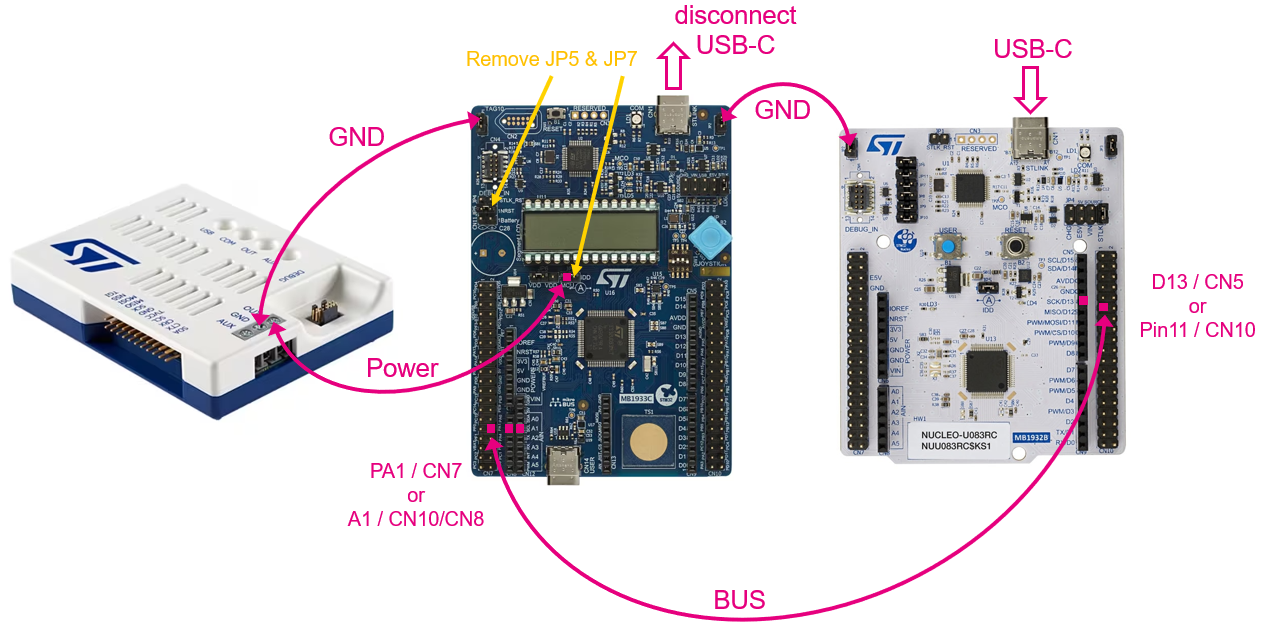
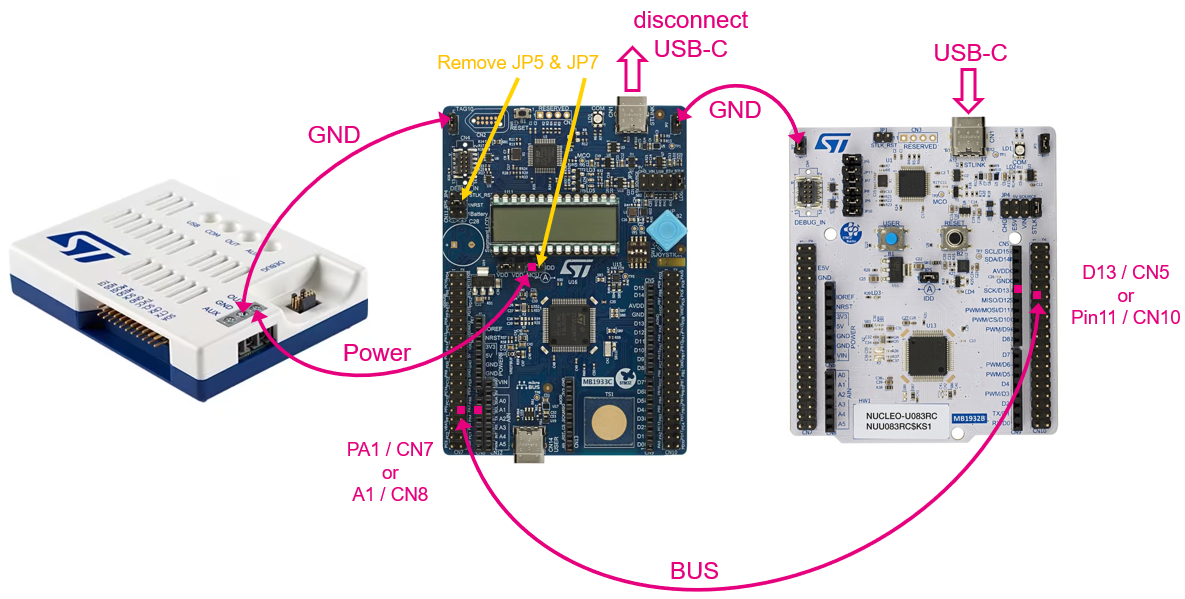
major update

diff --git a/enddevice/enddevice_handson_cubeide.md b/enddevice/enddevice_handson_cubeide.md
@@ -1,4 +1,4 @@
-----!
+//----!
 Presentation
 ----!
 
@@ -32,6 +32,7 @@ Uncomment **HAL_LCD_MODULE_ENABLED** in `stm32u0xx_hal_conf.h` to be able operat
 #define HAL_LCD_MODULE_ENABLED
 ```
 <br />
+
 Drag and drop listed header files from `C:\Users\...\STM32Cube\Repository\STM32Cube_FW_U0_V1.0.0\Drivers\BSP\STM32U083C-DK` in to `Inc` folder of the project.
 
 - `stm32u083c_discovery_glass_lcd.h`
@@ -40,7 +41,29 @@ Drag and drop listed header files from `C:\Users\...\STM32Cube\Repository\STM32C
 - `stm32u083c_discovery_errno.h`
 
 ![image](./img/header_files.png)
+
+# Include Board Support Package and LowLayer library 2
+
+Drag and drop listed c file from `C:\Users\...\STM32Cube\Repository\STM32Cube_FW_U0_V1.0.0\Drivers\BSP\STM32U083C-DK` in to `Src` folder of the project.
+
+- `stm32u083c_discovery_glass_lcd.c`
+
 <br />
+
+Drag and drop listed header file from `C:\Users\...\STM32Cube\Repository\STM32Cube_FW_U0_V1.0.0\Drivers\STM32U0xx_HAL_Driver\Inc` in to `STM32U0xx_HAL_Driver\Inc` folder of the project.
+
+- `stm32u0xx_hal_lcd.h`
+
+<br />
+
+Drag and drop listed c file from `C:\Users\...\STM32Cube\Repository\STM32Cube_FW_U0_V1.0.0\Drivers\STM32U0xx_HAL_Driver\Src` in to `STM32U0xx_HAL_Driver\Src` folder of the project.
+
+- `stm32u0xx_hal_lcd.c`
+
+<br />
+
+# DK Board revision
+- Solder mask print MB1933x (x = A/B/C/..)
 
 Define correct board revision in **stm32u083c_discovery.h**. Differ in assembled Glass LCD.
 
@@ -50,6 +73,7 @@ Define correct board revision in **stm32u083c_discovery.h**. Differ in assembled
 #endif
 ```
 <br />
+
 # Exported Functions
 Copy paste following snippet in `USER CODE BEGIN EFP` section in **main.h** file:
 
@@ -72,6 +96,8 @@ Let skip them and use simple LL function.
  // HAL_RTCEx_WakeUpTimerIRQHandler(&hrtc);
   /* USER CODE BEGIN RTC_TAMP_IRQn 1 */
 ```
+
+<br />
 
 Copy paste following snippet in `USER CODE BEGIN RTC_TAMP_IRQn 1` section in **stm32u0xx_it.c** file:
 
@@ -97,6 +123,8 @@ if (LL_RTC_IsActiveFlag_WUT(RTC) != 0)
  // HAL_LPTIM_IRQHandler(&hlptim1);
   /* USER CODE BEGIN TIM6_DAC_LPTIM1_IRQn 1 */
 ```
+
+<br />
 
 Copy paste following snippet in `USER CODE BEGIN TIM6_DAC_LPTIM1_IRQn 1` section in **stm32u0xx_it.c** file:
 
@@ -138,6 +166,7 @@ Copy paste following snippet in `USER CODE BEGIN PFP` section in **main.c** file
 void Convert_IntegerIntoChar(float number, uint16_t *p_tab);
 ```
 
+# Initialization 2
 ## Reset Backup domain
 Clear complete backup domain (LSE, RTC,..) in case of system reset.
 
@@ -230,7 +259,7 @@ Copy paste following snippet in `USER CODE BEGIN 4` section in **main.c** file:
 /*ISR for Falling edges from CH1_LPTIM1 and calculate duty cycle of negative pulse
  * 
  * ____IDLE_____negDC_______
- *    			|	|		|	|
+ *    		   	|	|		|	|
  *     			|___|		|___|
  * 			oldVF  newVR  newVF
  * */

diff --git a/enddevice/enddevice_handson_intro.md b/enddevice/enddevice_handson_intro.md
@@ -1,51 +1,23 @@
 ----!
 Presentation
 ----!
-# ???
-Let imagine simple BUS architecture one MASTER panel and multiple End device.
-
-- Two wired BUS DC power supply + Vss
-- Data stream are modulated as Edges in power line
-- Defined Low pulse widths for 1/0 bit in range hundred of microseconds to few miliseconds
-
-![image](./img/MasterBusEnd.png)
-
 # End device
 
 - Supplied from BUS and continuously decoding stream on BUS
-- Depends on timing requirements End device combining Sleep/Stop modes
+- Depends on timing requirements End device combining Sleep/StopX modes
 - Need also provide asnwers back to power line
 - Pulse can be very distorted
   
-
 ## In a Workshop
 
 - Use **STM32U83-DK** board
-- Device not supplied from BUS (it would required extra power supply)
-- Measure incoming signal by LPTIM with external LSE(quartz) crystal
+- Device is not supplied from BUS (it would require extra power supply)
+- Measure incoming pulses by LPTIM with external LSE(quartz) crystal
 - Re-shape edges by internal **Comparator**
-- Between edges and during Idle state on BUS the device enter in STOP mode
-- Run simple data process
+- Between edges and during Idle state on BUS the device enter in STOP1 mode
+- Perform simple data process
 - Duty cycle of low pulse is displayed on **Glass LCD**
-- Manage TimeOut with RTC unit when no TX acitivity on BUS
+- Manage TimeOut with RTC unit when no TX activity on BUS
 - Monitor consumption profile in **STM32CubeMonitor-Power**
 
 ![image](./img/EndDevice.png)
-
-# Master panel
-
-- Power bus with limited current
-- Transmit messages and expeceted answer within defined time window
-
-## In a Workshop
-
-- Use **STM32U83-NUCLEO** board
-- Generate low pulse with various duty cycle thanks TIMER in PWM mode
-- PWM duty cycle reconfiguration done in background mode by DMA transfer after button press
-- 0% duty cycle simulates IDLE state on BUS
-- Duty cycle is monitored on LED dimming
-- Manage TimeOut with RTC unit when no TX acitivity on BUS
-- MCU never wakeup and can run at very low freguency (down to 100 kHz)
-- Optionally consumption profile can be verified in **STM32CubeMonitor-Power**
-  
-![image](./img/master.png)

diff --git a/masterpanel/masterpanel_handson_powmon.md b/masterpanel/masterpanel_handson_powmon.md
@@ -2,7 +2,15 @@
 Presentation
 ----!
 # Power Monitor
-For Low power application let use Power Shield feature built in STLink-V3PWR for measure purpose and display profile of consumed current in real time.
+STLINK-V3PWR is a two-in-one standalone debugger probe and a source measurement unit (SMU) designed to synchronize code execution with a power consumption of STM32 applications in real time. This tool is specifically adapted for power consumption optimization.
+
+- Programmable voltage source from 1.6 to 3.6 V
+- sampling rate upto 100 kSpS
+- Dynamic measurement: few nA to 500 mA current
+- Auxiliary output voltage source from 1.6 to 3.6 V under up to 2 A 
+- JTAG / Serial Wire Debug
+- UART interface on Virtual COM port (VCP)
+- Multipath bridge USB to SPI/I2C/CAN/GPIOs
 
 ![image](./img/V3PWR.png) 
 
@@ -27,7 +35,7 @@ Wires can be optionally twisted to reduce noise.
 ![gif1](./img/CubeMX_PwrMon_SelectBoard.gif)
 
 # Wiring diagram to STM32U83-NUCLEO board
-- **Remove JP5** and **Remove JP9** on NUCLEO board
+- **Remove JP5** and **JP9** on NUCLEO board
 
 - Connect wires to **GND** and left **Pin 2** of **JP5**
   
@@ -36,8 +44,6 @@ Wires can be optionally twisted to reduce noise.
 ![image2](./img/wiring.png) 
 
 - or **Connect A-meter** to Pin 1 & 2 of JP5. Then keep NUCLEO board power from USB-C and do not disconect it. 
-  
-![image3](./img/Ameter.png) 
 
 # Configuration
 In Configuration window many parameters can be adjusted. For hands-on purpose let select:

diff --git a/enddevice/enddevice_handson_powmon.md b/enddevice/enddevice_handson_powmon.md
@@ -2,7 +2,15 @@
 Presentation
 ----!
 # Power Monitor
-For Low power application let use Power Shield feature built in STLink-V3PWR for measure purpose and display profile of consumed current in real time.
+STLINK-V3PWR is a two-in-one standalone debugger probe and a source measurement unit (SMU) designed to synchronize code execution with a power consumption of STM32 applications in real time. This tool is specifically adapted for power consumption optimization.
+
+- Programmable voltage source from 1.6 to 3.6 V
+- sampling rate upto 100 kSpS
+- Dynamic measurement: few nA to 500 mA current
+- Auxiliary output voltage source from 1.6 to 3.6 V under up to 2 A 
+- JTAG / Serial Wire Debug
+- UART interface on Virtual COM port (VCP)
+- Multipath bridge USB to SPI/I2C/CAN/GPIOs
 
 ![image](./img/V3PWR.png) 
 
@@ -27,13 +35,13 @@ Wires can be optionally twisted to reduce noise.
 ![gif1](./img/CubeMX_PwrMon_SelectBoard.gif)
 
 # Wiring diagram to STM32U83-DK board
-- **Remove JP7** on DK board
+- **Remove JP5** nad **JP7** on DK board
 
 - Connect wires to **GND** and left **Pin 2** of **JP7**
   
 - Disconnect USB-C from DK board to avoid small leakage current (unprecise current measuring) due to second ground reference.
 
-![image2](./img/wiring.png) 
+![image2](./img/wiring2.png) 
 
 - or **Connect A-meter** to Pin 1 & 2 of JP7. Then keep DK board power from USB-C and do not disconect it. 
   

diff --git a/masterpanel/masterpanel_handson_cubeide.md b/masterpanel/masterpanel_handson_cubeide.md
@@ -17,9 +17,9 @@ uint32_t SRC_Buffer_LED_PWM[4]  = {15, 30, 45, 0}; // define Low pulse width ~75
 
 # IPs start
 This section manage complete user code structure. MCU is runing at @1MHz Sysclock so LP Run and LP Sleep are implemented.
-DMA configuration is just about set source address (buffer with pulses) and destination address (Capture/Compare register). After one buttton press C/C register is updated with new value.
+DMA configuration is just about set source address (buffer with pulses) and destination address (Capture/Compare register). After buttton press Capture/Compare register is updated with new value.
 
-XxSMEN registers are cleared reduce further consumption in Sleep mode when internal busses are still clocked. Peripheries are not active as their master xxEN bits are reset. However, extra 10uA/1MHz is reduced deu to limiting clock distibution within device. By default xxSMEN are set after reset.
+XXSMEN registers are cleared reduce further consumption in Sleep mode when internal busses are still clocked. Peripheries are not active as their master xxEN bits are reset. However, extra 10uA/1MHz is reduced deu to limiting clock distibution within device. By default xxSMEN are set after reset.
 
 Before entering in SLeep/LP Sleep need to suspend Systick timer otherwise MCU wakes up imidiately within 1ms.
 <p> </p>

diff --git a/masterpanel/masterpanel_handson_cubemx.md b/masterpanel/masterpanel_handson_cubemx.md
@@ -3,10 +3,14 @@ Presentation
 ----!
 
 # User Button
+
 - Configure **PC13** as `GPIO_EXTI13`
+- Configure **PA5** as `TIM2_CH1` - Green LED connected
 
 Under **GPIO** tab modify PC13:
+
 - `External Interrupt Mode with Falling edge trigger detection` as GPIO mode
+
 - Enable `Pull-up`. It's not mounted on STM32U83 NUcleo board.
 
 <awarning> 
@@ -23,16 +27,14 @@ TIMER in PWM mode is used for simulation of message generation. Period set 5ms @
   
 - Configure `Internal Clock` for Clock Source
   
-- Activate `Channel_1` in default `PWM Generation CH1`
-
-- Remap TIMER_CH1 to **PA5 pin** - Green LED connected
+- Activate `Channel_1` in `PWM Generation CH1`
 
 - Counter Settings:
   - `Prescaler` = 49
   - `Counter period` = 99
 
 - PWM Generation Channel 1:
-  - keep `PWM mode 1`
+  - Keep `PWM mode 1`
   - `Pulse` = 0 - no toggling after Timer start
   - `CH Polarity` set LOW - Pulse parameter define width of Low pulse 
 
@@ -57,7 +59,9 @@ To be able re-configure pulse duration (Capture/Compare register) in background 
 
 # Clock Configuration
 - Change **MSI RC** to `1 MHz` and select MSI as `System Clock`
-    
+
+<p> </p>
+
 ![image](./img/clock.png)
 
 # Project Manager

diff --git a/enddevice/enddevice_handson_cubemx.md b/enddevice/enddevice_handson_cubemx.md
@@ -25,7 +25,7 @@ To be able catch signal edge down to Stop modes. LPTIM1 and LSE cooperates toget
   
 - Configure `Counts internal clock events` mode
   
-- Activate `Channel_1` and `Channel_2` both in default `no IO used: ....`
+- Activate `Channel_1` and `Channel_3` both in default `no IO used: ....`
 
 - Channel 1 Parameter Settings:
   - `Capture`
@@ -63,13 +63,13 @@ Application periodically wakeups from Stop modes and refresh LCD glass display.
   
 - Select **LSE** as source for `RTC/LCD`
 
-- Select **LSE** as source for `LPTIM1`. 
+- Select **LSE** as source for `LPTIM1`
 
   
 ![image](./img/clock.png)
 
 # Project Manager
-Project is now configured.
+Project is now ready for generation!
 
 - Select **CubeIDE Toolchain**
 

diff --git a/enddevice/enddevice_handson_result.md b/enddevice/enddevice_handson_result.md
@@ -7,8 +7,8 @@ Check functionlaity we developt in past 90 minutes!
 - Supply DK board
 - Reset Nucelo board by reset button - to be sure BUS is in IDLE state
 - Connect Nucleo to DK board
-- Reset DK board - welcome message should scrolling
-- After press user(blue) button on Nucleo the End Device shows state on BUS (IDLE or Duty Cycle of Low pulse 15/30/45 %)
+- Reset DK board - welcome message is scrolling
+- After press user (blue) button on Master Panel (Nucleo) the End Device(DK) shows state on BUS (IDLE or Duty Cycle of Low pulse 15/30/45 %)
 
 ![gif](./img/zoomconsumption.gif)
 

diff --git a/enddevice/handson_overview.md b/enddevice/handson_overview.md
@@ -1,6 +1,3 @@
-----!
-Presentation
-----!
 # Wired BUS Architecture
 Let imagine simple BUS architecture one Master Panel and multiple End devices.
 
@@ -9,8 +6,10 @@ Let imagine simple BUS architecture one Master Panel and multiple End devices.
     - VSS
 - Data stream are modulated as Edges in power line
 - Defined Low pulse widths for 1/0 bit in range hundred of microseconds to few miliseconds
+- Proprietary protocol
+    - typically start bit + data + stop bits
 
 ![image](./img/MasterBusEnd.png)
 
-![image](./img/data_stream.png)
+![image](./img/stream.png)
 

diff --git a/masterpanel/masterpanel_handson_result.md b/masterpanel/masterpanel_handson_result.md
@@ -3,10 +3,10 @@ Presentation
 ----!
 
 # Test Functionality
-Check functionality we developt in past 30 minutes!
+Check functionality we develop in past 30 minutes!
 
 - Supply Nucelo board
-- After every press blue user button Duty cycle of Low pulse is changed
+- After every press blue user button a Duty cycle of Low pulse is updated
 - Visible change in **LED brightness**
 
 ## Measure consumption in LP Sleep
